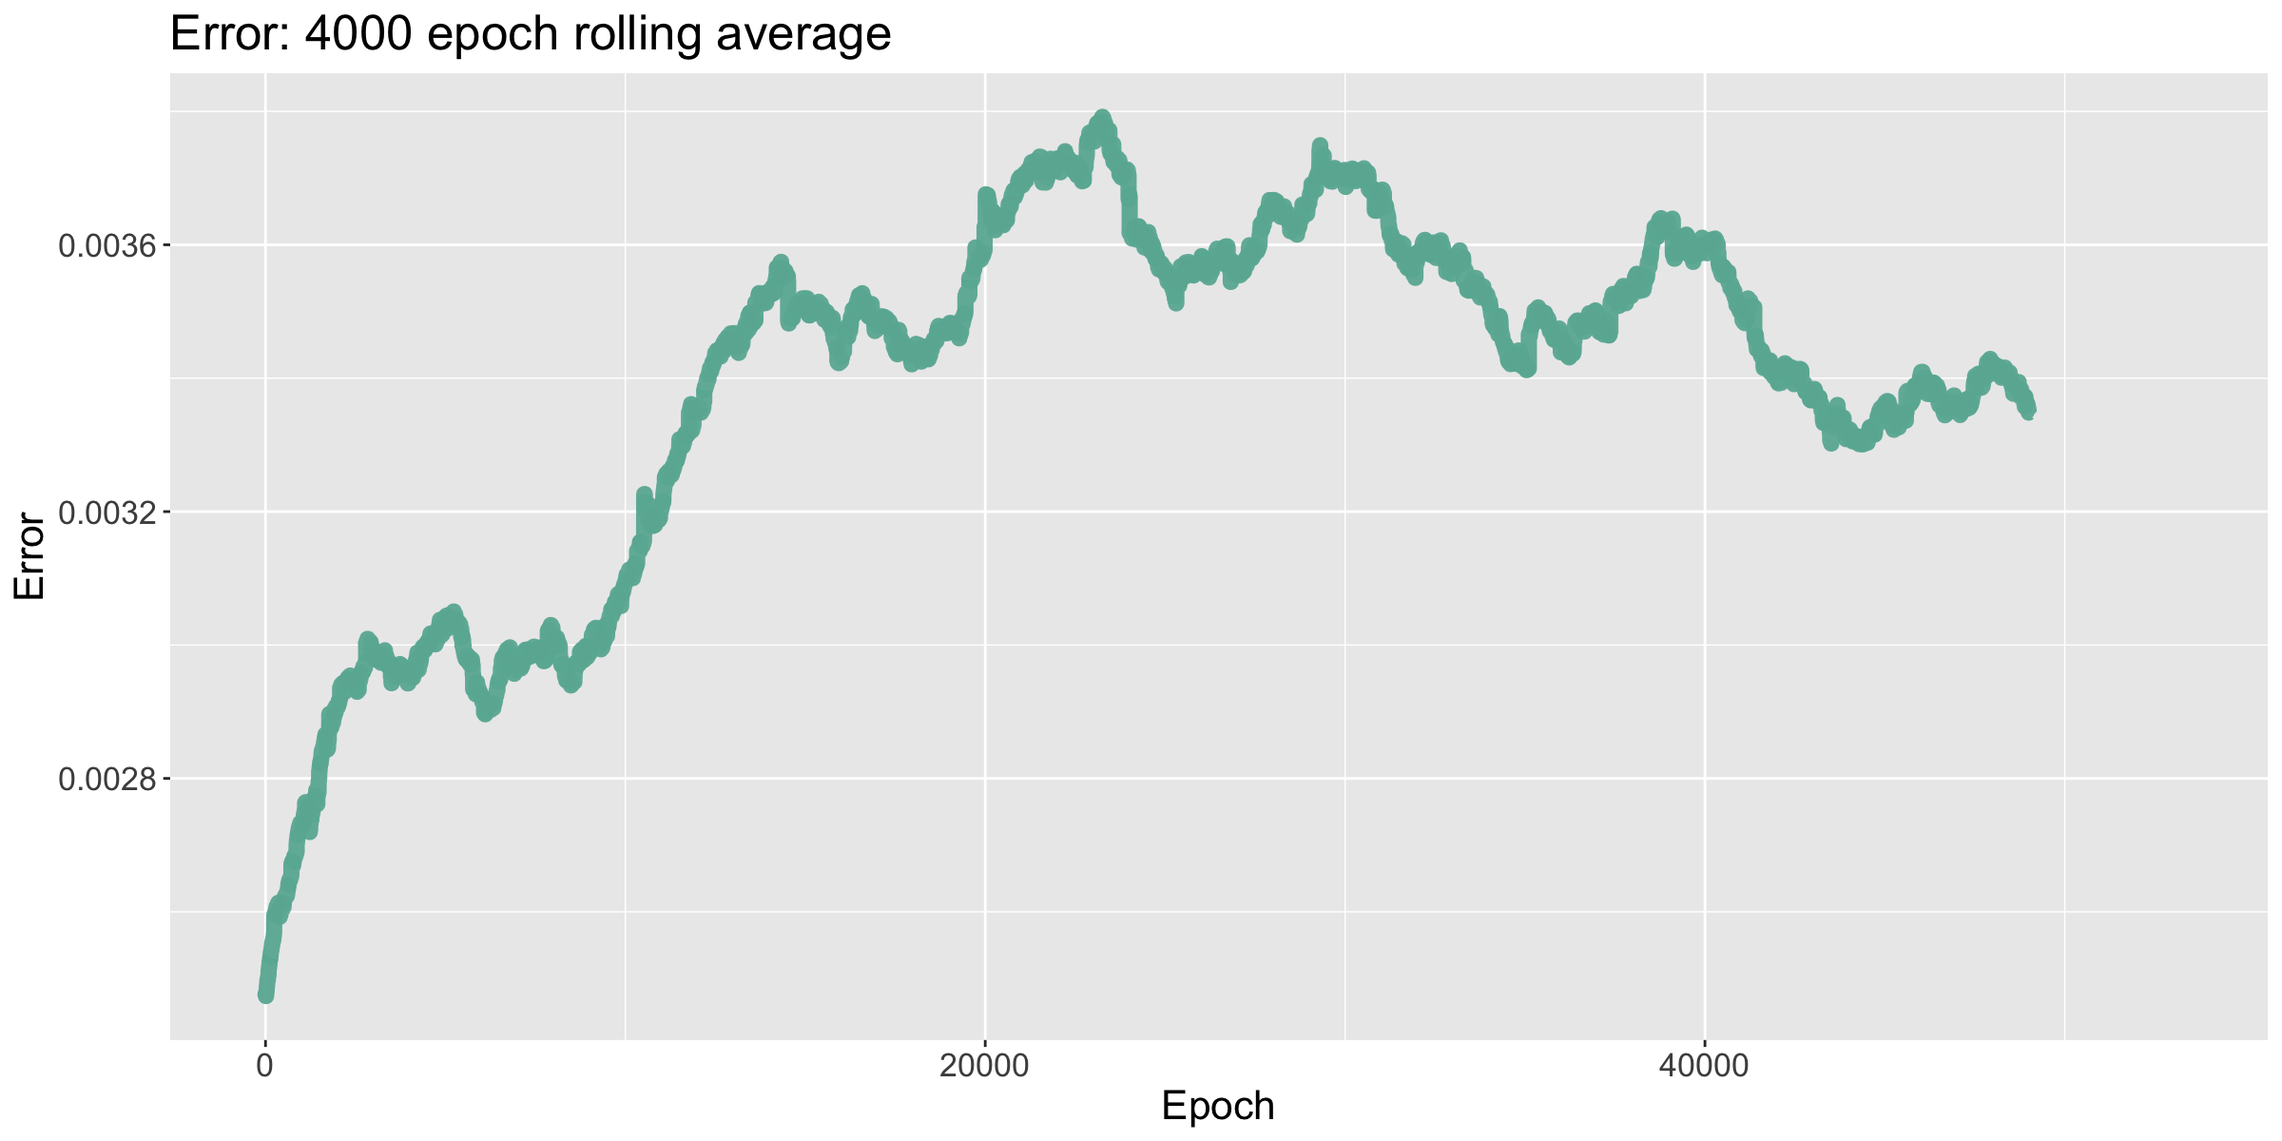
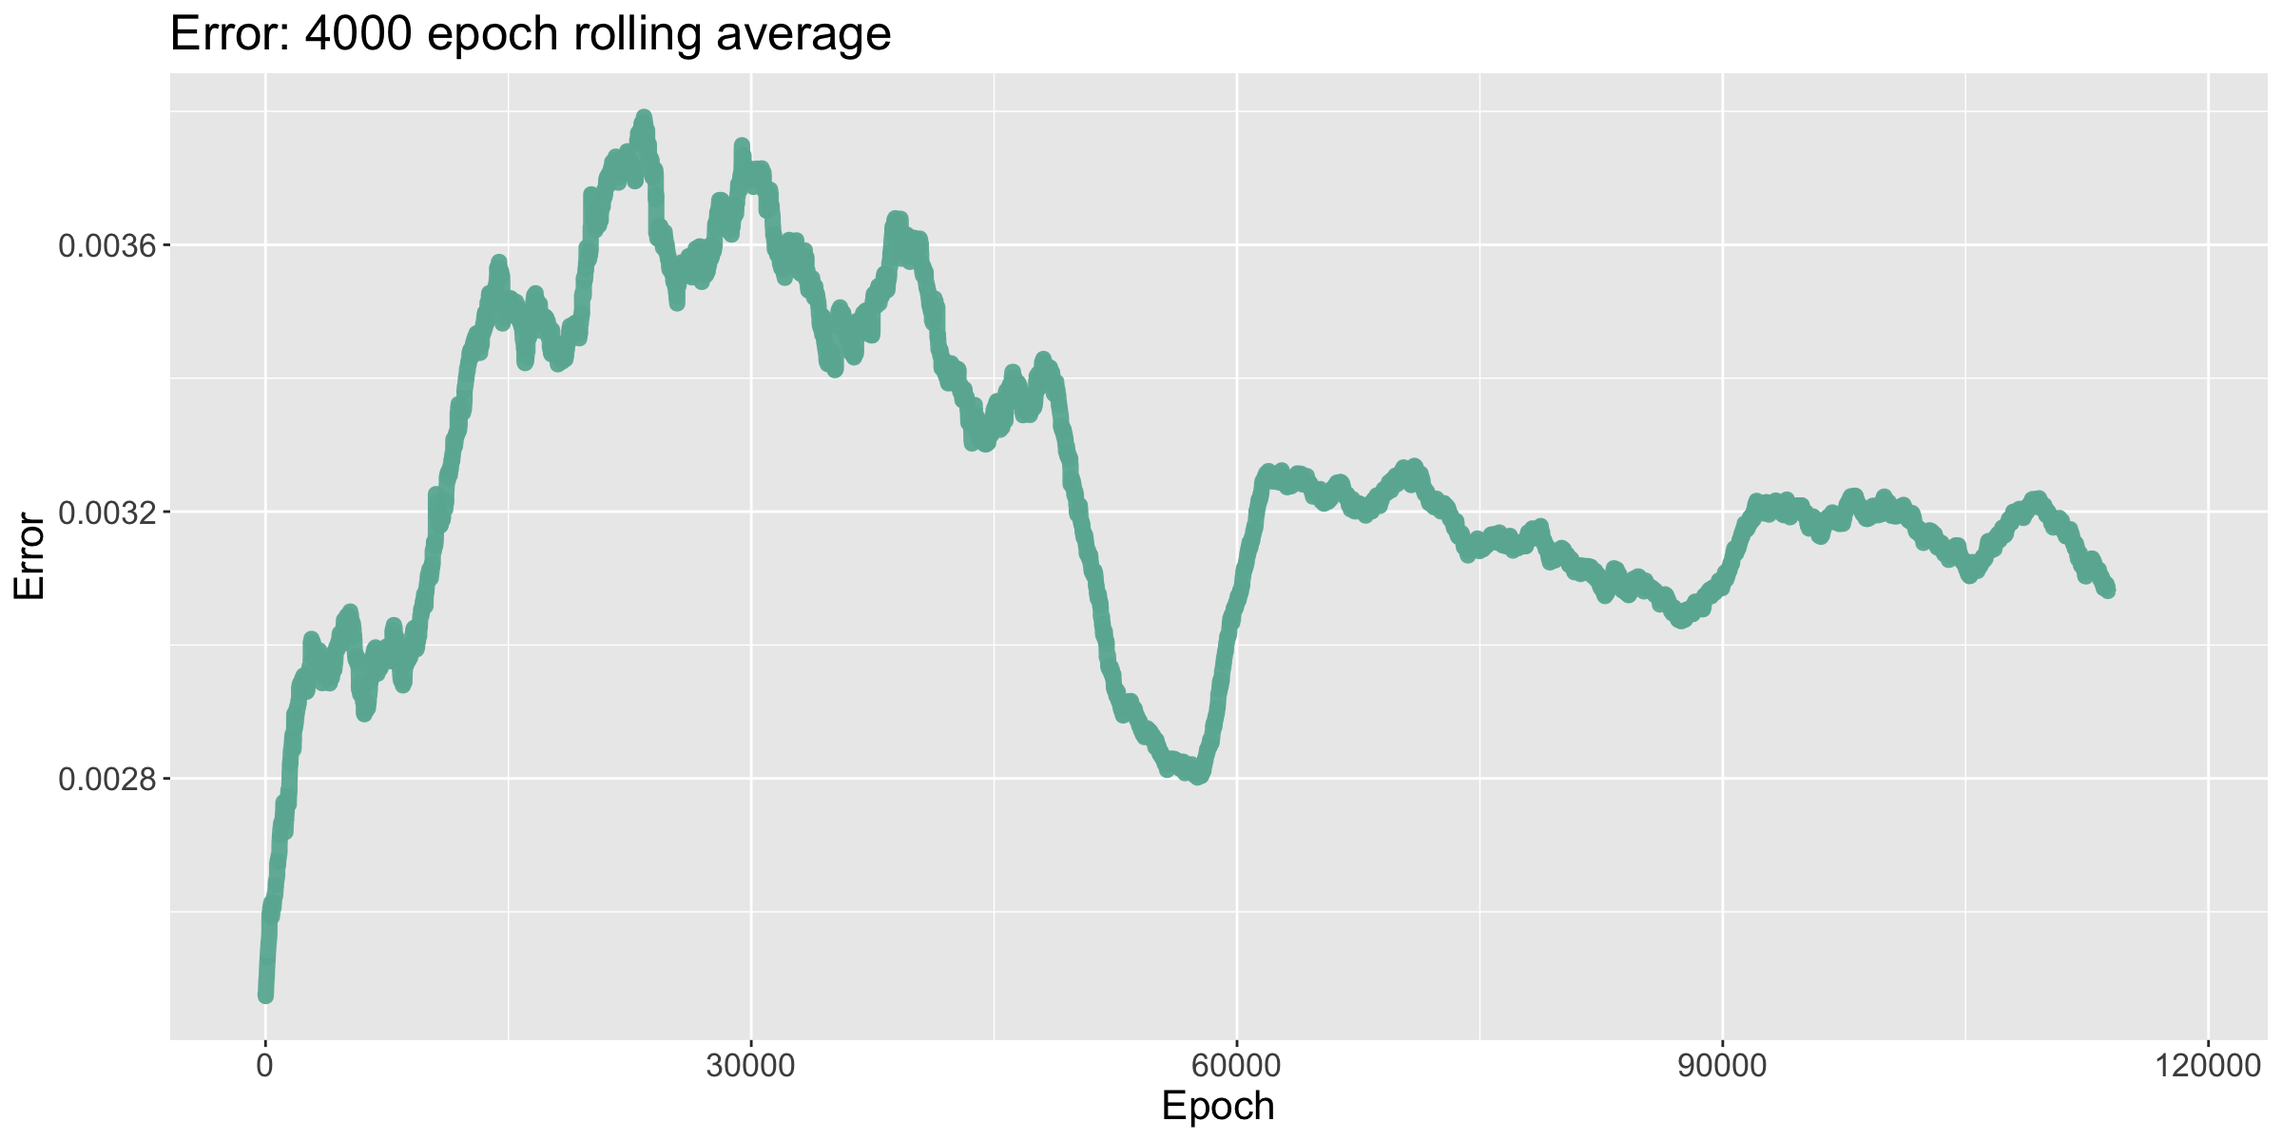
Catan

diff --git a/machine learning/Catan RL/Catan_RL.md b/machine learning/Catan RL/Catan_RL.md
@@ -25,17 +25,17 @@ title: Modeling Catan through self-play (2024)
 
 &emsp; Catan is a strategic board game where players attempt to control the resources on the board in order to score points. Throughout the game, players take turns rolling dice, trading resource cards, purchasing development cards, and building roads and settlements, until they reach 10 points. There are many luck-based elements to the game, such as who goes first, the distribution of the dice rolls, and the development card shuffle. Hence, it is often difficult to evaluate a given position, especially when players are pursuing contrasting strategies.
 
-&emsp; When playing online with friends, I noticed that the AI bots were atypically poor, even at their most difficult setting. Instead of developing long-term strategies, the bots pursued simple ones, such as drawing lots of development cards. The purpose of this project is to train a competitive Catan playing neural network; we hope that our network can make moves that a professional Catan player would categorize as "strong" or "intelligent".
+&emsp; When playing online with friends, I noticed that the AI bots were atypically poor, even at their most difficult setting. Instead of developing long-term strategies, the bots pursued simple ones, such as drawing lots of development cards. The purpose of this project is to train a competitive Catan playing neural network; I hoped that my network would be able to make moves that a professional Catan player would categorize as "strong" or "intelligent".
 
-&emsp; A notable example of training a neural network through self-play is G. Tesauro's TD-Gammon developed during the 1990s [[12]](#7-references). His networks consisted of less than 5 hidden layers and 100 hidden units—networks that are orders of magnitude smaller than many modern networks. During training, each turn it would predict the win probability for each possible move, and then selected the move with the highest overall win probability. He then backpropagated the game result using a temporal-difference (TD) method, meaning that instead of comparing each individual prediction with the result, they would be compared successively to each other to minimize their differences. This approach showed remarkable success: An initial model achieved a strong intermediate ranking after 200,000 training games, and an enhanced model achieved a level of play only matched by the world's best players after 1,500,000 training games.
+&emsp; A notable example of training a neural network through self-play is G. Tesauro's TD-Gammon developed during the 1990s [[12]](#7-references). His networks consisted of less than 5 hidden layers and 100 hidden units—networks that are orders of magnitude smaller than many modern networks. During training, each turn it would predict the win probability for each possible move, and then select the move with the highest overall win probability. His program then backpropagated the game result using a temporal-difference (TD) method, meaning that instead of comparing each individual prediction with the result, they would be compared successively to each other to minimize their differences. This approach showed remarkable success: An initial model achieved a strong intermediate ranking after 200,000 training games, and an enhanced model achieved a level of play only matched by the world's best players after 1,500,000 training games.
 
-&emsp; Another interesting example of learning through self-play is the work of DeepMind Technologies in the 2010s on Atari video games [[7]](#7-references), chess, and Go [[9]](#7-references). They took advantage of greatly increased computer power and new image recognition methods, e.g., modern convolutional neural network architectures. This enabled the creation of a single model capable of playing multiple Atari games, along with a state-of-the-art chess playing bot, and, for the first time, a super-human level Go playing program. When training their networks, they utilized various Monte-Carlo tree search (MCTS) algorithms, which would randomly choose moves that had not been visited many times before.
+&emsp; Another interesting example of learning through self-play is the work of DeepMind Technologies in the 2010s on Atari video games [[7]](#7-references), chess, and Go [[9]](#7-references). They took advantage of greatly increased computer power and new image recognition methods, e.g., modern convolutional neural network architectures. This enabled the creation of a single model capable of playing multiple Atari games, along with a state-of-the-art chess playing bot, and, for the first time, a super-human level Go playing program. When training their networks, they utilized various Monte-Carlo tree search (MCTS) algorithms, which would randomly choose moves (or board positions) that had not been visited many times before.
 
 &emsp; My approach to Catan directly builds on the research discussed above. I trained a residual neural network to predict whether a given player will finish first, second, or third, using a TD-method combined with a simplified MCTS algorithm. I tested this approach in two settings: (1) with the board tiles and numbers fixed and (2) without the board fixed. In both trials, I disabled player-to-player trading while limiting the number of players to 3; I hope to train a more general model in the future.
 
 &emsp; In case (1), I created a network that won each game in an average of 73 dice rolls. Other analyses suggest the average number of rolls to win being in the range 60–70—for instance, in [[1]](#7-references), they counted an average of 71 rolls in a four person game. Hence, 73 rolls imply my model is a little slow, as a three person game should finish more quickly than a four person game. The slight increase in the number of rolls could be attributed to disabling player-to-player trading. I also found that, by personally playing my model, it was better than an amateur player, but the network still struggled with late game strategy. It seems capable of occasionally winning, albeit not at a high rate. I think this can be fixed by employing MCTS rollouts during the end game.
 
-&emsp; In case (2), the network was a bit slower, winning each game in an average of 86 dice rolls. In turn, this reduced the model from playing at an intermediate level and challenging for wins to a beginner level. Two possible ways to improve this model are either creating natural variables for the model to interpret (e.g., how many resources each settlement position borders), or creating a larger model with additional training time. The former seems simpler because the latter would likely require much more computational power than I had available. 
+&emsp; In case (2), the network was a bit slower, winning each game in an average of 86 dice rolls. In turn, this reduced the model from playing at an intermediate level and challenging for wins to a beginner level. Two possible ways to improve this model are either creating human engineered features for the model to interpret (e.g., how many resources each settlement position borders), or creating a larger model with additional training time. The former seems simpler because the latter would likely require much more computational power than I had available. 
 
 &emsp; In future work, I plan on implementing an attention mechanism in my network architecture, and I will have it train on a smaller, simpler board configuration. This will allow the network to consider past moves played and resources drawn, in turn giving its predictions greater accuracy. Hopefully this version of Catan will finally be strong enough to consistently challenge a human player for wins.
 
@@ -74,15 +74,15 @@ title: Modeling Catan through self-play (2024)
 
 ## 3. Network architecture
 
-&emsp; The CatanNetwork is a 10 layer feedforward, residual neural network consisting of a fully connected input layer, 4 residual blocks [[3]](#7-references), and a fully connected output layer. Specifically, the input layer maps our 1782 input features linearly to 500 neurons. Each residual block performs a 500 $ \times $ 500 linear transformation and ReLU, another 500 $ \times $ 500 linear transformation and ReLU, adds the input (also known as a skip connection), then performs another ReLU. Finally, our output linearly maps our 500 new features to a single output value, which is supposed to correspond to what position the player is expected to finish. In total, the CatanNetwork has 2,896,001 parameters.
+&emsp; The CatanNetwork is a 10 layer feedforward residual neural network consisting of a fully connected input layer, 4 residual blocks [[3]](#7-references), and a fully connected output layer. Specifically, the input layer maps our 1782 input features linearly to 500 neurons. Each residual block performs a 500 $ \times $ 500 linear transformation and ReLU, another 500 $ \times $ 500 linear transformation and ReLU, adds the input (also known as a skip connection), then performs another ReLU. Finally, our output linearly maps our 500 new features to a single output value, which is supposed to correspond to what position the player is expected to finish. In total, the CatanNetwork has 2,896,001 parameters.
 
 ![CatanNetwork](CatanNetwork.png)
 
 &emsp; I tested a variety of architectures before settling on the CatanNetwork. I started with some simple models: single layer networks with 50, 100, or 1100 neurons. I found these models to be too unstable and to suffer from catastrophic forgetting. I also tried other naive configurations, such as 5 fully connected layers with 1000 neurons each. These all seemed to lack the quickness to converge and ability not to forget that the CatanNetwork possessed.
 
-&emsp; One important hyperparameter was the number of neurons in the hidden layers. I chose 500 to create a sufficiently large network while also prioritizing training time. I discuss in [§4.4](#44-adamw) that, by exploiting weight decay, having too large of a network is more of a concern than too small; I hope the CatanNetwork is large enough. Thus, with the chosen number of neurons, the network was able to play a game of Catan approximately every 4 seconds, which translates to 22,500 games per day. 
+&emsp; One important hyperparameter was the number of neurons in the hidden layers. I chose 500 to create a sufficiently large network while also prioritizing training time. I discuss in [§4.4](#44-adamw) that, by exploiting weight decay, having too large of a network is more of a concern than too small. I hoped the CatanNetwork would be large enough, although now I believe a bigger model is needed. Thus, with the chosen number of neurons, the network was able to play a game of Catan approximately every 4 seconds, which translates to 22,500 games per day. 
 
-&emsp; I am interested in experimenting with deeper architectures or more hidden neurons in the future. One comparison I made when training my model was to image recognition architectures. If you consider the current board information as an image, where instead of classifying images we are classifying moves, then it is natural to compare the number of parameters. Strong image recognition architectures for the CIFAR-100 data have anywhere from 2,500,000 to 25,000,000 parameters, cf. [[2]](#7-references). Hence, the size of the CatanNetwork seemed reasonable.
+&emsp; I am interested in experimenting with deeper architectures or more hidden neurons in the future. One comparison I made when training my model was to image recognition architectures. If you consider the current board information as an image, where instead of classifying images we are classifying moves, then it is natural to compare the number of parameters. Strong image recognition architectures for the CIFAR-100 data have anywhere from 2,500,000 to 25,000,000 parameters, cf. [[2]](#7-references). This was one justification I made for my choice of architecture.
 
 
 
@@ -90,12 +90,6 @@ title: Modeling Catan through self-play (2024)
 
 &emsp; In this section, I describe the ideas that were utilized in training my bot. First, in [§4.1](#41-temporal-differences), I explain why I utilized temporal-difference methods and how they are implemented in my code. Subsequently, in [§4.2](#42-monte-carlo-tree-search), I detail my simplified Monte-Carlo tree search algorithm. Next, in [§4.3](#43-criterion-and-gradient-clipping), I explain my choice of criterion, a smooth L1 loss, and why gradient clipping was necessary. In [§4.4](#44-adamw), I justify using the AdamW optimizer. Finally, in [§4.5](#45-batch-size-and-learning-rate), I discuss how adjusting the batch size and learning rate affected training.
 
-
-<!---
-##### 4.1 Q-learning
-
-&emsp; Enter some information here...
---->
 
 ##### 4.1. Temporal-differences
 
@@ -107,7 +101,7 @@ title: Modeling Catan through self-play (2024)
 
 &emsp; I exploited TDs as follows. Each turn, the program records the prediction the current player has made for their chosen move; this yields one prediction vector for every player. Once the game has concluded, for each player, I construct a labels vector by copying and then shifting the predictions vector one coordinate over—forgetting the first prediction made—and inserting the final game score in the final position. Effectively, this compares subsequent predictions to each other, and the final prediction to the final game score. Finally, I compute the loss, cf. [§4.3](#43-criterion-and-gradient-clipping), and backpropagate it.
 
-&emsp; Another possible algorithm would be updating the weights of the network each turn; this seemed impractical for two reasons. The first is that it would increase training time for what appeared to be little gain: without knowing the outcome of the game, the network cannot validate its predictions. The second reason is that my network currently compares subsequent predictions made by each player; this could not be done each turn for each player, as it would interfere with computing the loss of other predictions. In other words, the network weights would change between predictions, which will throw an error in PyTorch. To combat this problem, I would have had to have the network return a vector of final place predictions, one for each player. Then we could compare subsequent vectors without needing to wait to return to the same player.
+&emsp; Another possible algorithm would be updating the weights of the network every time a player made a move; this seemed impractical for two reasons. The first is that it would increase training time for what appeared to be little gain: without knowing the outcome of the game, the network cannot validate its predictions. The second reason is that my network currently compares subsequent predictions made by each player; this could not be done each turn for each player, as it would interfere with computing the loss of other predictions. In other words, the network weights would change between predictions, which will throw an error in PyTorch. To combat this problem, I would have had to have the network output a vector of final place predictions, one for each player. Then we could compare subsequent vectors without needing to wait to return to the same player.
 
 
 ##### 4.2. Monte-Carlo tree search
@@ -152,13 +146,13 @@ title: Modeling Catan through self-play (2024)
 
 ##### 5.1 A fixed board network
 
-&emsp; My first model was trained by fixing the board, i.e., the resources, roll numbers, and ships were all fixed. I found this network to train well and achieve an intermediate level of play.
+&emsp; My first model was trained by fixing the board, i.e., the resources, roll numbers, and ships were all fixed. I found this network to train well and achieve an intermediate level of play. The training procedure was as follows: I started with a learning rate of 5e-5 for 38,000 epochs, which I decreased to 1e-5 until epoch 53,000; finally, I increased the batch size to 2 for the remainder of the training. The network was trained for a total of 117,750 epochs.
 
 &emsp; As discussed in [§4.3](#43-criterion-and-gradient-clipping), the model's error is partially inversely correlated with the number of turns taken to win the game. This was seemingly one of the major drawbacks of using TDs: during the late stages of training, the model would struggle to optimize error, as attempts to do so could end up increasing it. The later drops in error can be attributed to increasing the batch size, which in turn averages out the spikes that can occur due to my MCTS algorithm.
 
 ![fixed error](fixed_error.png)
 
-&emsp; The number of turns the model took to win each game quickly decreased until it flatlined, winning each game in around 85 turns. I then decreased the learning rate, which brought it down to winning in around 77 turns. I tried doubling the batch size for fine tuning; however, unlike in the general case, this hurt training, causing a slight increase in the number of turns needed to win.
+&emsp; The number of turns the model took to win each game quickly decreased until it flatlined, winning each game in around 85 turns. I then decreased the learning rate, which brought it down to winning in around 77 turns. Lastly, when I doubled the batch size, the number of tursn to win started to drop, but then shot back up. Watching the network improve and then forget during the fine tuning stage of training suggests that a larger model is needed.
 
 ![fixed turns](fixed_turns.png)
 
@@ -167,7 +161,7 @@ title: Modeling Catan through self-play (2024)
 
 ##### 5.2 A general network
 
-&emsp; My second model was trained on arbitrary board positions, i.e., the resources, roll numbers, and ships were all shuffled each game. This network struggled to play at a high level, which I simply attribute to not having enough training data and parameters to model the task at hand. I believe a general model could be created with more computational power.
+&emsp; My second model was trained on arbitrary board positions, i.e., the resources, roll numbers, and ships were all shuffled each game. This network struggled to play at a high level, which I simply attribute to not having enough training data and parameters to model the task at hand. I believe a general model could be created with more computational power. The training procedure was as follows: I started with a learning rate of 5e-5 for the first 48,000 epochs, when I decreased the learning rate to 1e-5; next, at epoch 63,000, I doubled the batch size to 2; and finally, at epoch 95,000, I again doubled the batch size to 4. The network was trained for a total of 102,300 epochs.
 
 &emsp; The error of the model again grew proportionally to the number of turns taken to win the game. The volatility of the error early on compared to its relative stability later is a consequence of increasing the batch size.
 
